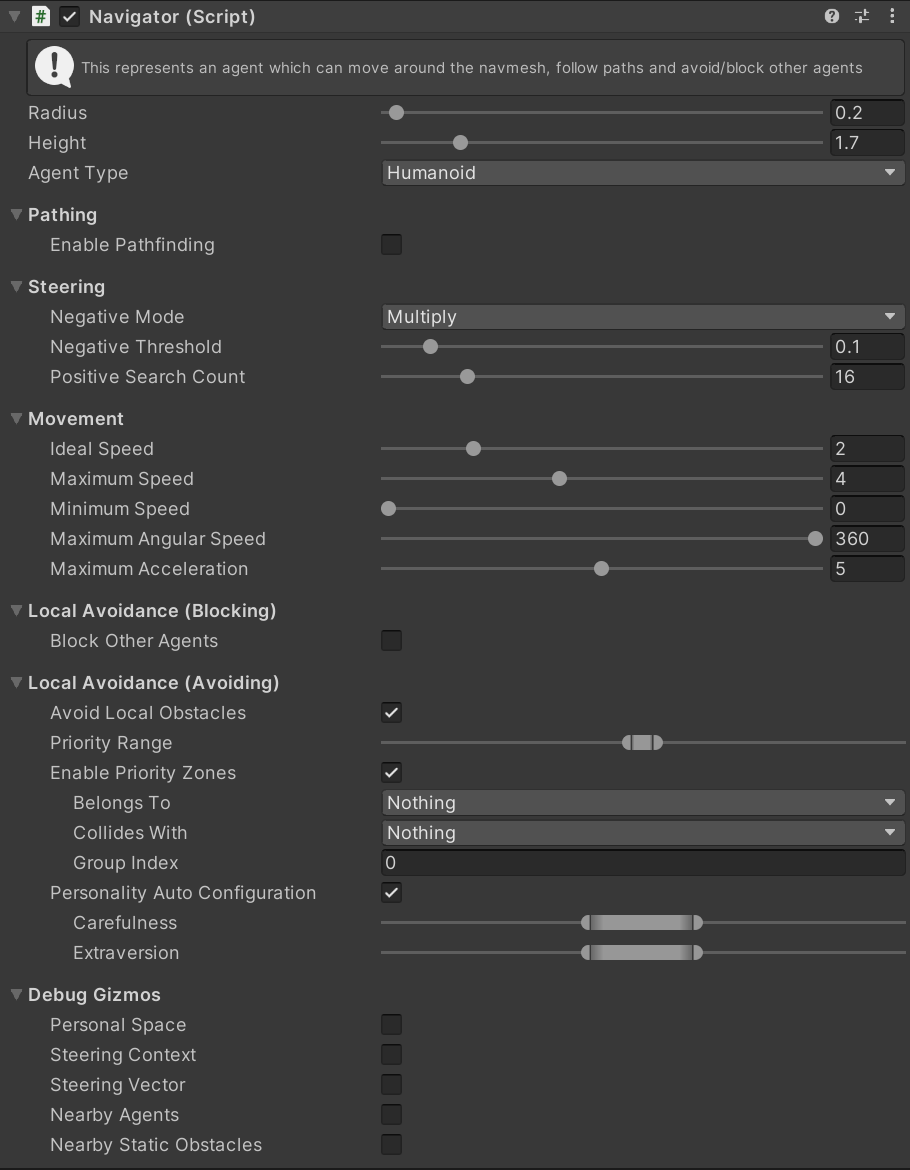
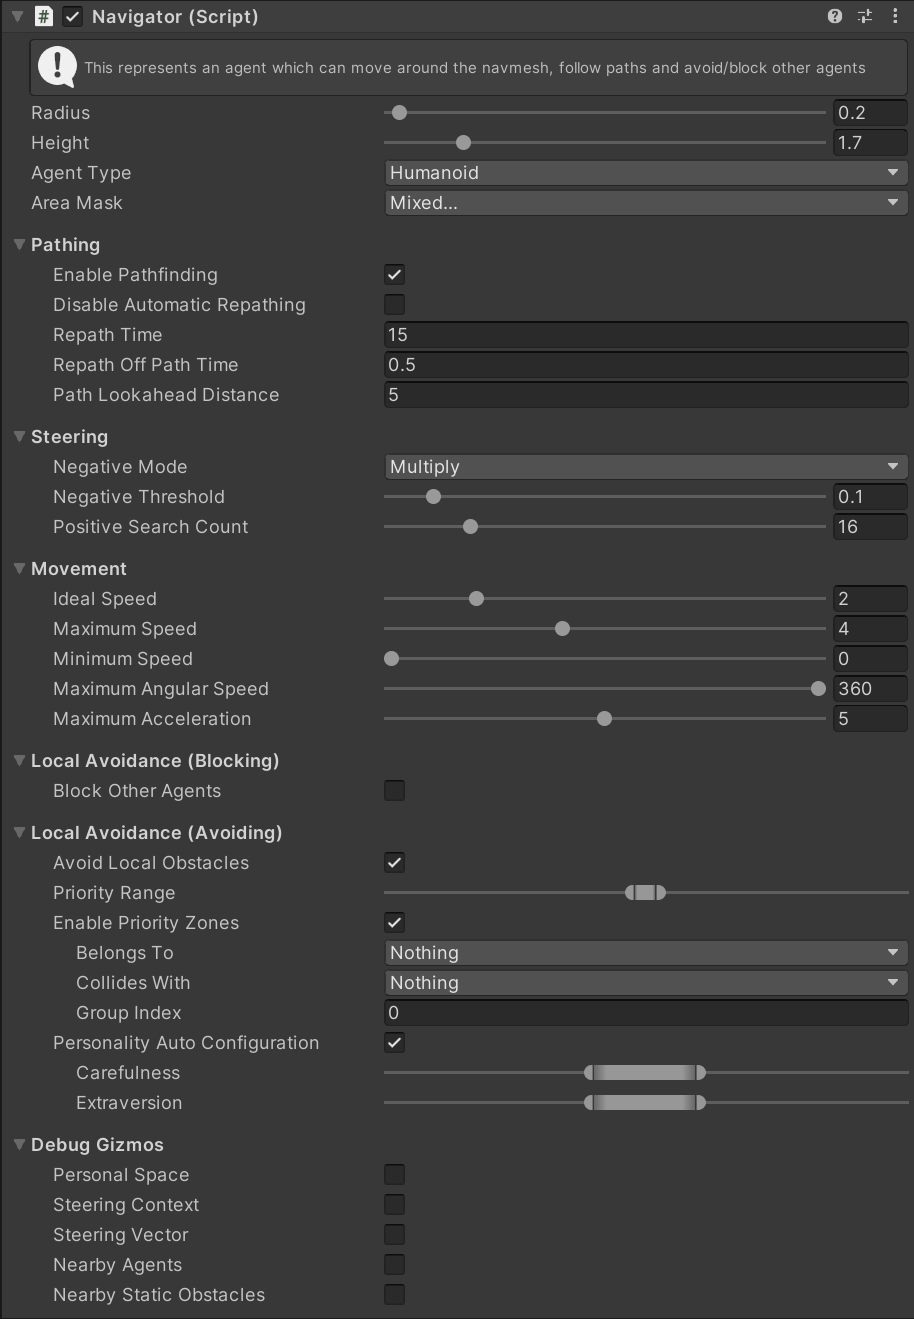
- New image of Navigator inspector with area mask  - Added new properties to Navigator docs  - Finished off Differences section of EnhancedNavMeshAgent docs

diff --git a/docs/Reference/MonoBehaviours/EnhancedNavMeshAgent.md b/docs/Reference/MonoBehaviours/EnhancedNavMeshAgent.md
@@ -2,7 +2,7 @@
 
 This MonoBehaviour is a direct replacement for the Unity [NavMeshAgent](https://docs.unity3d.com/ScriptReference/AI.NavMeshAgent.html) MonoBehaviour. It implements the same properties and methods but internally is a Crowds agent. This provides an easy path to migrate from traditional a traditional NavMeshAgent based system to the higher quality Crowds system.
 
-### Migration
+## Migration
 
 To migrate a GameObject from a `NavMeshAgent` to an `EnhancedNavMeshAgent` simply add the `Enhanced Nav Mesh Agent` script to the GameObject. This will automatically create several other MonoBehaviours (`Synchroniser`, `Entity Identity`, `Convert To Entity`, `Navigator`, `Steer For Goal`), these are the Crowds behaviours which the `EnhancednavMeshAgent` will automatically configure.
 
@@ -10,20 +10,20 @@ Once the `EnhancedNavMeshAgent` MonoBehaviour has been added click `Import From 
 
 Finally click `Auto Configure Crowds` to automatically configure some default settings on the Crowds MonoBehaviours.
 
-### Differences
+## Differences
 
 The `Enhanced Nav Mesh Agent` is not identical to the `Nav Mesh Agent`. The follows properties are not supported:
- - todo:autoBraking
- - todo:currentOffMeshLinkData.activated
- - todo:currentOffMeshLinkData.linkType
- - todo:currentOffMeshLinkData.offMeshLink
- - todo:nextOffMeshLinkData.activated
- - todo:nextOffMeshLinkData.linkType
- - todo:nextOffMeshLinkData.offMeshLink
- - todo:isStopped
- - todo:navMeshOwner
- - todo:nextPosition.set
- - todo:velocity.set
+ - autoBraking - Crowds always uses autoBraking style behaviour.
+ - currentOffMeshLinkData.activated - It is not possible for Crowds to get this information from the Unity low level pathfinding API.
+ - currentOffMeshLinkData.linkType - It is not possible for Crowds to get this information from the Unity low level pathfinding API.
+ - currentOffMeshLinkData.offMeshLink - It is not possible for Crowds to get this information from the Unity low level pathfinding API.
+ - nextOffMeshLinkData.activated - It is not possible for Crowds to get this information from the Unity low level pathfinding API.
+ - nextOffMeshLinkData.linkType - It is not possible for Crowds to get this information from the Unity low level pathfinding API.
+ - nextOffMeshLinkData.offMeshLink - It is not possible for Crowds to get this information from the Unity low level pathfinding API.
+ - navMeshOwner - It is not possible for Crowds to get this information from the Unity low level pathfinding API.
+ - isStopped - Not Implemented. Open a feature request if you need this feature.
+ - nextPosition.set - Not Implemented. Open a feature request if you need this feature.
+ - velocity.set - Not Implemented. Open a feature request if you need this feature.
 
 ## Inspector
 

diff --git a/docs/Reference/MonoBehaviours/Navigator.md b/docs/Reference/MonoBehaviours/Navigator.md
@@ -6,6 +6,8 @@ This MonoBehaviour is the main behaviour which configures a gameObject as an int
 
 ![Navigator Inspector](../../../images/NavigatorInspector.png)
 
+todo: ^ retake after area mask has been added
+
 !!! note
     Some of the following properties set a range instead of a single value, when the agent is first initialised it will choose a random value in this range. This means that if you instantiate many prefabs of the same agent prefab they will all act slightly differently which significantly improves the quality of simulation for large crowds.
 
@@ -21,11 +23,19 @@ The height of the agent in the simulation. The agent will avoid obstacles (e.g. 
 
 Agent type used for pathfinding. Available types are configured in the Unity navigation window: `Window > AI > Navigation > Agents`.
 
+#### Area Mask
+
+The area mask which defines the walkable areas for this agent.
+
 ### Pathfinding
 
 #### Enable Pathing
 
-Allow this entity to automatically find a path to it's goal (if it has a goal).
+Allow this entity to find a path to it's goal (if it has a goal).
+
+#### Disable Automatic Repathing
+
+Disable automatically finding a new path when the path becomes stale (e.g. the goal moves).
 
 #### Repath Time
 
@@ -146,10 +156,6 @@ Set the radius of the goal position. The agent will aim to arrive somewhere with
 #### GoalVelocity
 
 Set the velocity of the goal position. The agent will aim to match this velocity when it is within the radius.
-
-#### AreaMask
-
-todo
 
 ## Script Methods
 
